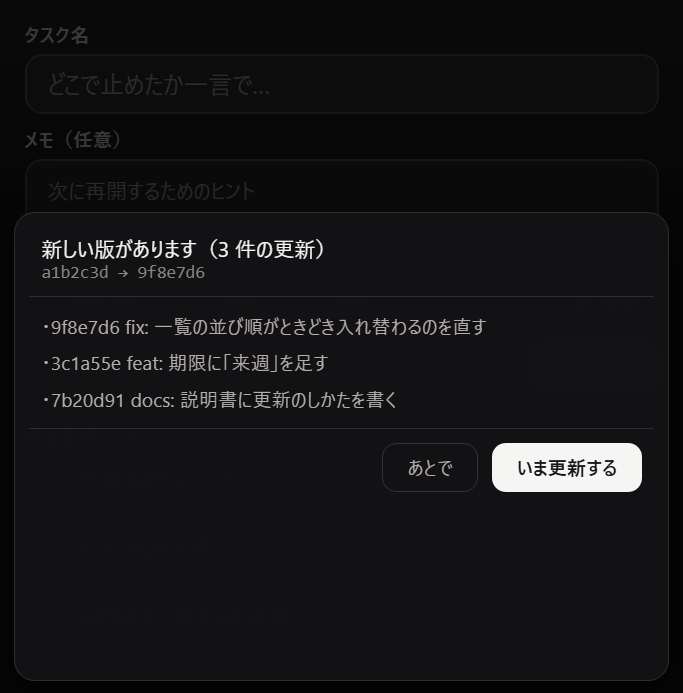
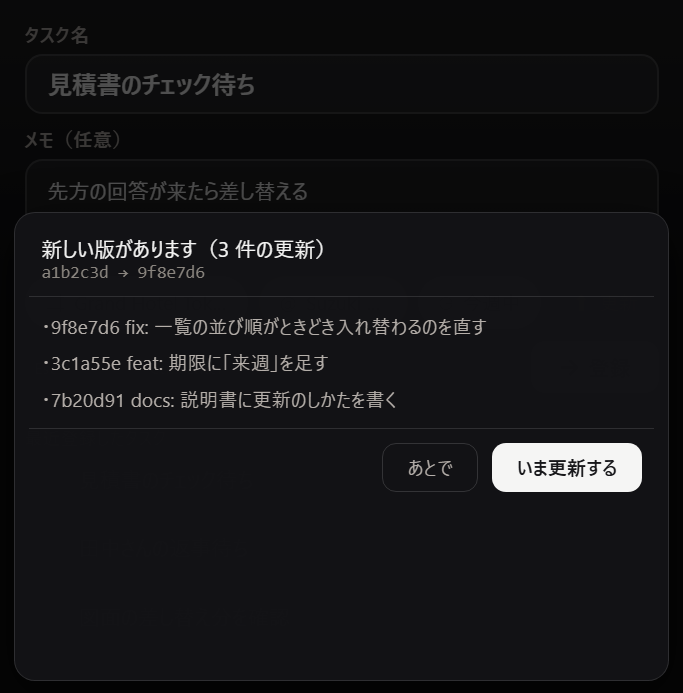
docs: 説明書を担当者の複数選択に合わせる
3 章に「担当者は何人でも選べます」を足して、Enter と Space の行き先を表にした。
ほかの 2 つと違って選んでも閉じない、という一点が伝わらないと操作に迷うため。

自分が担当から外れたときのことも 1 枚使って書いた（chips-away）。
このまま登録すると相手の手元には出るが、こちらの一覧には出てこない。

打ちかけが消えなくなったこと、一覧の行に相手の名前が付くことも書き足して、
画面写真を撮り直した。take_shots.py が単数のままだったので、そちらも直した。

Changed region(s): [[0.0615, 0.2424, 0.4612, 0.303], [0.0615, 0.0909, 0.369, 0.1515]]

diff --git a/manual/template.html b/manual/template.html
@@ -411,6 +411,13 @@ app / runtime / mingit / manual / .git など
   そのまま残ります。
 </p>
 
+<div class="note">
+  <strong>打ちかけたまま閉じても、消えません</strong>
+  打っている途中で <kbd>Esc</kbd> を押して引っ込めても、次に呼び出したときは打った内容がそのまま出てきます。
+  登録先・担当者・期限をいじってあれば、そちらも一緒に残ります。
+  登録し終われば片付くので、次はまっさらから始まります。
+</div>
+
 <!-- ══════════════════════════════════════════ -->
 <h2 id="targets">3. 登録先・担当者・期限を変える</h2>
 
@@ -418,7 +425,7 @@ app / runtime / mingit / manual / .git など
 
 <table>
   <tr><th>⌗ リスト</th><td>登録先のリスト（クリック または <kbd>Ctrl</kbd>+<kbd>L</kbd>）</td></tr>
-  <tr><th>@ 担当者</th><td>担当者（クリック または <kbd>Ctrl</kbd>+<kbd>U</kbd>）</td></tr>
+  <tr><th>@ 担当者</th><td>担当者（クリック または <kbd>Ctrl</kbd>+<kbd>U</kbd>）。<strong>何人でも選べます</strong></td></tr>
   <tr><th>◷ 期限</th><td>期限（クリック または <kbd>Ctrl</kbd>+<kbd>D</kbd>）</td></tr>
 </table>
 
@@ -434,17 +441,20 @@ app / runtime / mingit / manual / .git など
 </div>
 
 <ul>
-  <li>上下キーで選んで <kbd>Enter</kbd>、またはクリックで決まります</li>
+  <li>上下キーで選んで <kbd>Enter</kbd>、またはクリックで決まります
+      （担当者だけは選んでも閉じません。<a href="#multiuser">下記</a>）</li>
   <li>リストは名前だけでなく、<strong>入っているフォルダ名でも探せます</strong><br />
       例：「grand kyoto」で 2 件出たら、「hotel archive kyoto」で絞れます</li>
   <li>担当者は名前でもメールアドレスでも探せます</li>
+  <li>いま選んである担当者は、絞り込みを消すと<strong>いつも上のほうに出ます</strong>
+      （候補が多くても、選んだ人を見失わないようにするためです）</li>
   <li>リスト名も担当者名もアルファベットなので、パネルを開くと<strong>入力モードが自動で半角英数に切り替わります</strong></li>
   <li>やめるときは、パネルの外（上のあいたところ）をクリックするか <kbd>Esc</kbd></li>
 </ul>
 
 <div class="note">
   <strong>ここで変えるのは「今回だけ」です</strong>
-  次に呼び出したときは、また既定に戻ります。
+  次に呼び出したときは、また既定に戻ります（打ちかけを残したまま閉じたときだけは、選んだ先も一緒に残ります）。
   <strong>ふだんの入れ先そのもの</strong>を変えたいときは、行の右に出る <strong>⌂</strong> を押してください
   （<a href="#change">10. 設定を変えたいとき</a>）。
 </div>
@@ -458,6 +468,37 @@ app / runtime / mingit / manual / .git など
     <img src="{{IMG:pick-due}}" alt="期限を選ぶ" width="390" />
     <figcaption>期限（<kbd>Ctrl</kbd>+<kbd>D</kbd>）</figcaption>
   </figure>
+</div>
+
+<h3 id="multiuser">担当者は何人でも選べます</h3>
+
+<p>
+  ほかの 2 つと違って、<strong>担当者のパネルは選んでも閉じません。</strong>
+  続けて何人か入れられるようにするためです。行の右端の <strong>☑</strong> が、
+  いま担当に入っている人です。
+</p>
+
+<table>
+  <tr><th>名前を打って <kbd>Enter</kbd></th>
+      <td>その人を入れて、絞り込み欄が空になる（続けて次の人を探せます）</td></tr>
+  <tr><th>絞り込みが空で <kbd>Enter</kbd></th><td>決めて閉じる</td></tr>
+  <tr><th>上下キー＋<kbd>Space</kbd></th><td>光っている行の入り切り</td></tr>
+  <tr><th>クリック</th><td>同じく入り切り</td></tr>
+  <tr><th><kbd>Esc</kbd> ／ <kbd>Tab</kbd> ／ 外をクリック</th><td>決めて閉じる</td></tr>
+</table>
+
+<p>
+  つまり <kbd>Ctrl</kbd>+<kbd>U</kbd> →「suzuki」<kbd>Enter</kbd> →「tanaka」<kbd>Enter</kbd> →
+  <kbd>Enter</kbd> と、手を離さずに 2 人足して閉じられます。
+  チップには「Yamada +2」のように、先頭のひとりと残りの人数が出ます
+  （指を置くと全員の名前が出ます）。
+</p>
+
+<div class="note">
+  <strong>ひとりも居ない状態にはできません</strong>
+  最後のひとりを外そうとすると断られます。担当のいないタスクは、作った本人しか
+  在り処を知らないまま ClickUp のどこかに残ってしまうためです。
+  付け替えたいときは、<strong>先に新しい人を足してから</strong>外してください。
 </div>
 
 <h3>期限は 6 つから選べます</h3>
@@ -480,10 +521,30 @@ app / runtime / mingit / manual / .git など
     <p>
       <strong>変えた内容はその 1 回かぎりです。</strong>
       次に呼び出したときは、いつものリスト・自分・今日に戻ります。
+      ただし打ちかけを残したまま閉じたときは、選んだ先も一緒に残ります
+      （そこまで組んでから中断したのに、戻すと組み直しになるためです）。
     </p>
   </div>
   <figure>
     <img src="{{IMG:chips-changed}}" alt="既定から変えた状態" width="390" />
+  </figure>
+</div>
+
+<div class="step">
+  <div class="step-body">
+    <h3>自分が担当から外れると、枠の色が変わります</h3>
+    <p>
+      担当者から自分を外すと、担当者のところに<strong>琥珀色の枠</strong>が出ます。
+    </p>
+    <p>
+      <a href="#feed">最近登録したタスク</a>と<a href="#wide">広げた一覧</a>に出るのは、
+      <strong>自分が担当のものだけ</strong>です。自分を外して登録すると、
+      そのタスクは相手の手元には出ますが、<strong>こちらの一覧には出てきません。</strong>
+      押す前に気づけるよう枠で伝えて、登録したあとにももう一度お伝えします。
+    </p>
+  </div>
+  <figure>
+    <img src="{{IMG:chips-away}}" alt="自分が担当から外れている状態" width="390" />
   </figure>
 </div>
 
@@ -519,6 +580,16 @@ app / runtime / mingit / manual / .git など
   その場で別のリストへ入れた分もここに出るので、どこへ入れたか忘れても見失いません。
   いつものリスト以外のものは、2 行目にリスト名が付きます。
 </p>
+<p>
+  自分のほかにも担当者がいるタスクは、2 行目に <strong>@ 相手の名前</strong>が付きます。
+  何人かいるときは「@ Suzuki +2」のように畳みます（指を置くと全員出ます）。
+</p>
+
+<div class="note">
+  <strong>ここに出るのは「自分が担当のもの」だけです</strong>
+  担当者から自分を外して登録したものは、ここにも<a href="#wide">広げた一覧</a>にも出てきません。
+  相手の手元には出ています（<a href="#targets">3. 登録先・担当者・期限を変える</a>）。
+</div>
 
 <table>
   <tr><th>行をクリック</th><td>ClickUp でそのタスクを開く</td></tr>

diff --git a/manual/take_shots.py b/manual/take_shots.py
@@ -64,7 +64,7 @@ FEED = [
     {'id': 't1', 'name': '見積書のチェック待ち', 'url': '', 'list_id': 'p1',
      'list_name': 'Yamada', 'memo': '見積書_日本橋案件.xlsx - Excel'},
     {'id': 't2', 'name': '田中さんの返事待ち', 'url': '', 'list_id': 's1',
-     'list_name': 'Sales Activity', 'memo': ''},
+     'list_name': 'Sales Activity', 'memo': '', 'others': ['Suzuki Hanako']},
     {'id': 't3', 'name': '図面の差し替え分を確認', 'url': '', 'list_id': 'p1',
      'list_name': 'Yamada', 'memo': '第3版_20260804.pdf'},
 ]
@@ -82,13 +82,15 @@ WIDE = [
     {'id': 'w1', 'name': '見積書のチェック待ち', 'url': '', 'list_id': 'p1',
      'list_name': 'Yamada', 'memo': '見積書_日本橋案件.xlsx - Excel', 'status': 'to do', 'due': _due(0)},
     {'id': 'w2', 'name': '田中さんの返事待ち', 'url': '', 'list_id': 's1',
-     'list_name': 'Sales Activity', 'memo': '', 'status': 'to do', 'due': _due(0)},
+     'list_name': 'Sales Activity', 'memo': '', 'status': 'to do', 'due': _due(0),
+     'others': ['Suzuki Hanako']},
     {'id': 'w3', 'name': '図面の差し替え分を確認', 'url': '', 'list_id': 'p1',
      'list_name': 'Yamada', 'memo': '第3版_20260804.pdf', 'status': 'to do', 'due': _due(-1)},
     {'id': 'w4', 'name': '発注書の押印をもらう', 'url': '', 'list_id': 'h1',
      'list_name': 'Grand Hotel Tokyo', 'memo': '', 'status': 'to do', 'due': _due(-4)},
     {'id': 'w5', 'name': '現地調査の日程を決める', 'url': '', 'list_id': 'h2',
-     'list_name': 'Grand Hotel Kyoto', 'memo': '先方の都合待ち', 'status': 'to do', 'due': _due(-8)},
+     'list_name': 'Grand Hotel Kyoto', 'memo': '先方の都合待ち', 'status': 'to do', 'due': _due(-8),
+     'others': ['Suzuki Hanako', 'Chris Baker']},
     {'id': 'w6', 'name': '仕様書のレビュー', 'url': '', 'list_id': 's2',
      'list_name': 'Product Backlog', 'memo': '', 'status': 'to do', 'due': _due(2)},
     {'id': 'w7', 'name': '見積の再提出', 'url': '', 'list_id': 'h4',
@@ -212,7 +214,9 @@ def shot_pick_list_search():
 
 
 def shot_pick_user():
-    js('closePicker(false); openPicker("user");')
+    js('closePicker(false);'
+       'pickedUsers = [SELF, DIR.members[1]]; renderTargets();'
+       'openPicker("user");')
     grab('pick-user', shot_pick_due)
 
 
@@ -223,9 +227,18 @@ def shot_pick_due():
 
 def shot_chips_changed():
     js('closePicker(false);'
-       'pickedList = DIR.lists[3]; pickedUser = DIR.members[1];'
+       'pickedList = DIR.lists[3]; pickedUsers = [SELF, DIR.members[1]];'
        'pickedDue = DUE_PRESETS[3]; renderTargets();')
-    grab('chips-changed', shot_update_chip)
+    grab('chips-changed', shot_chips_away)
+
+
+def shot_chips_away():
+    """自分が担当から外れている状態。琥珀の枠が出る。
+
+    このまま登録すると手元の一覧には出てこないので、説明書でも 1 枚使って伝える。
+    """
+    js('pickedUsers = [DIR.members[1], DIR.members[3]]; renderTargets();')
+    grab('chips-away', shot_update_chip)
 
 
 # ── 新しい版のお知らせ ────────────────────────────────────────
